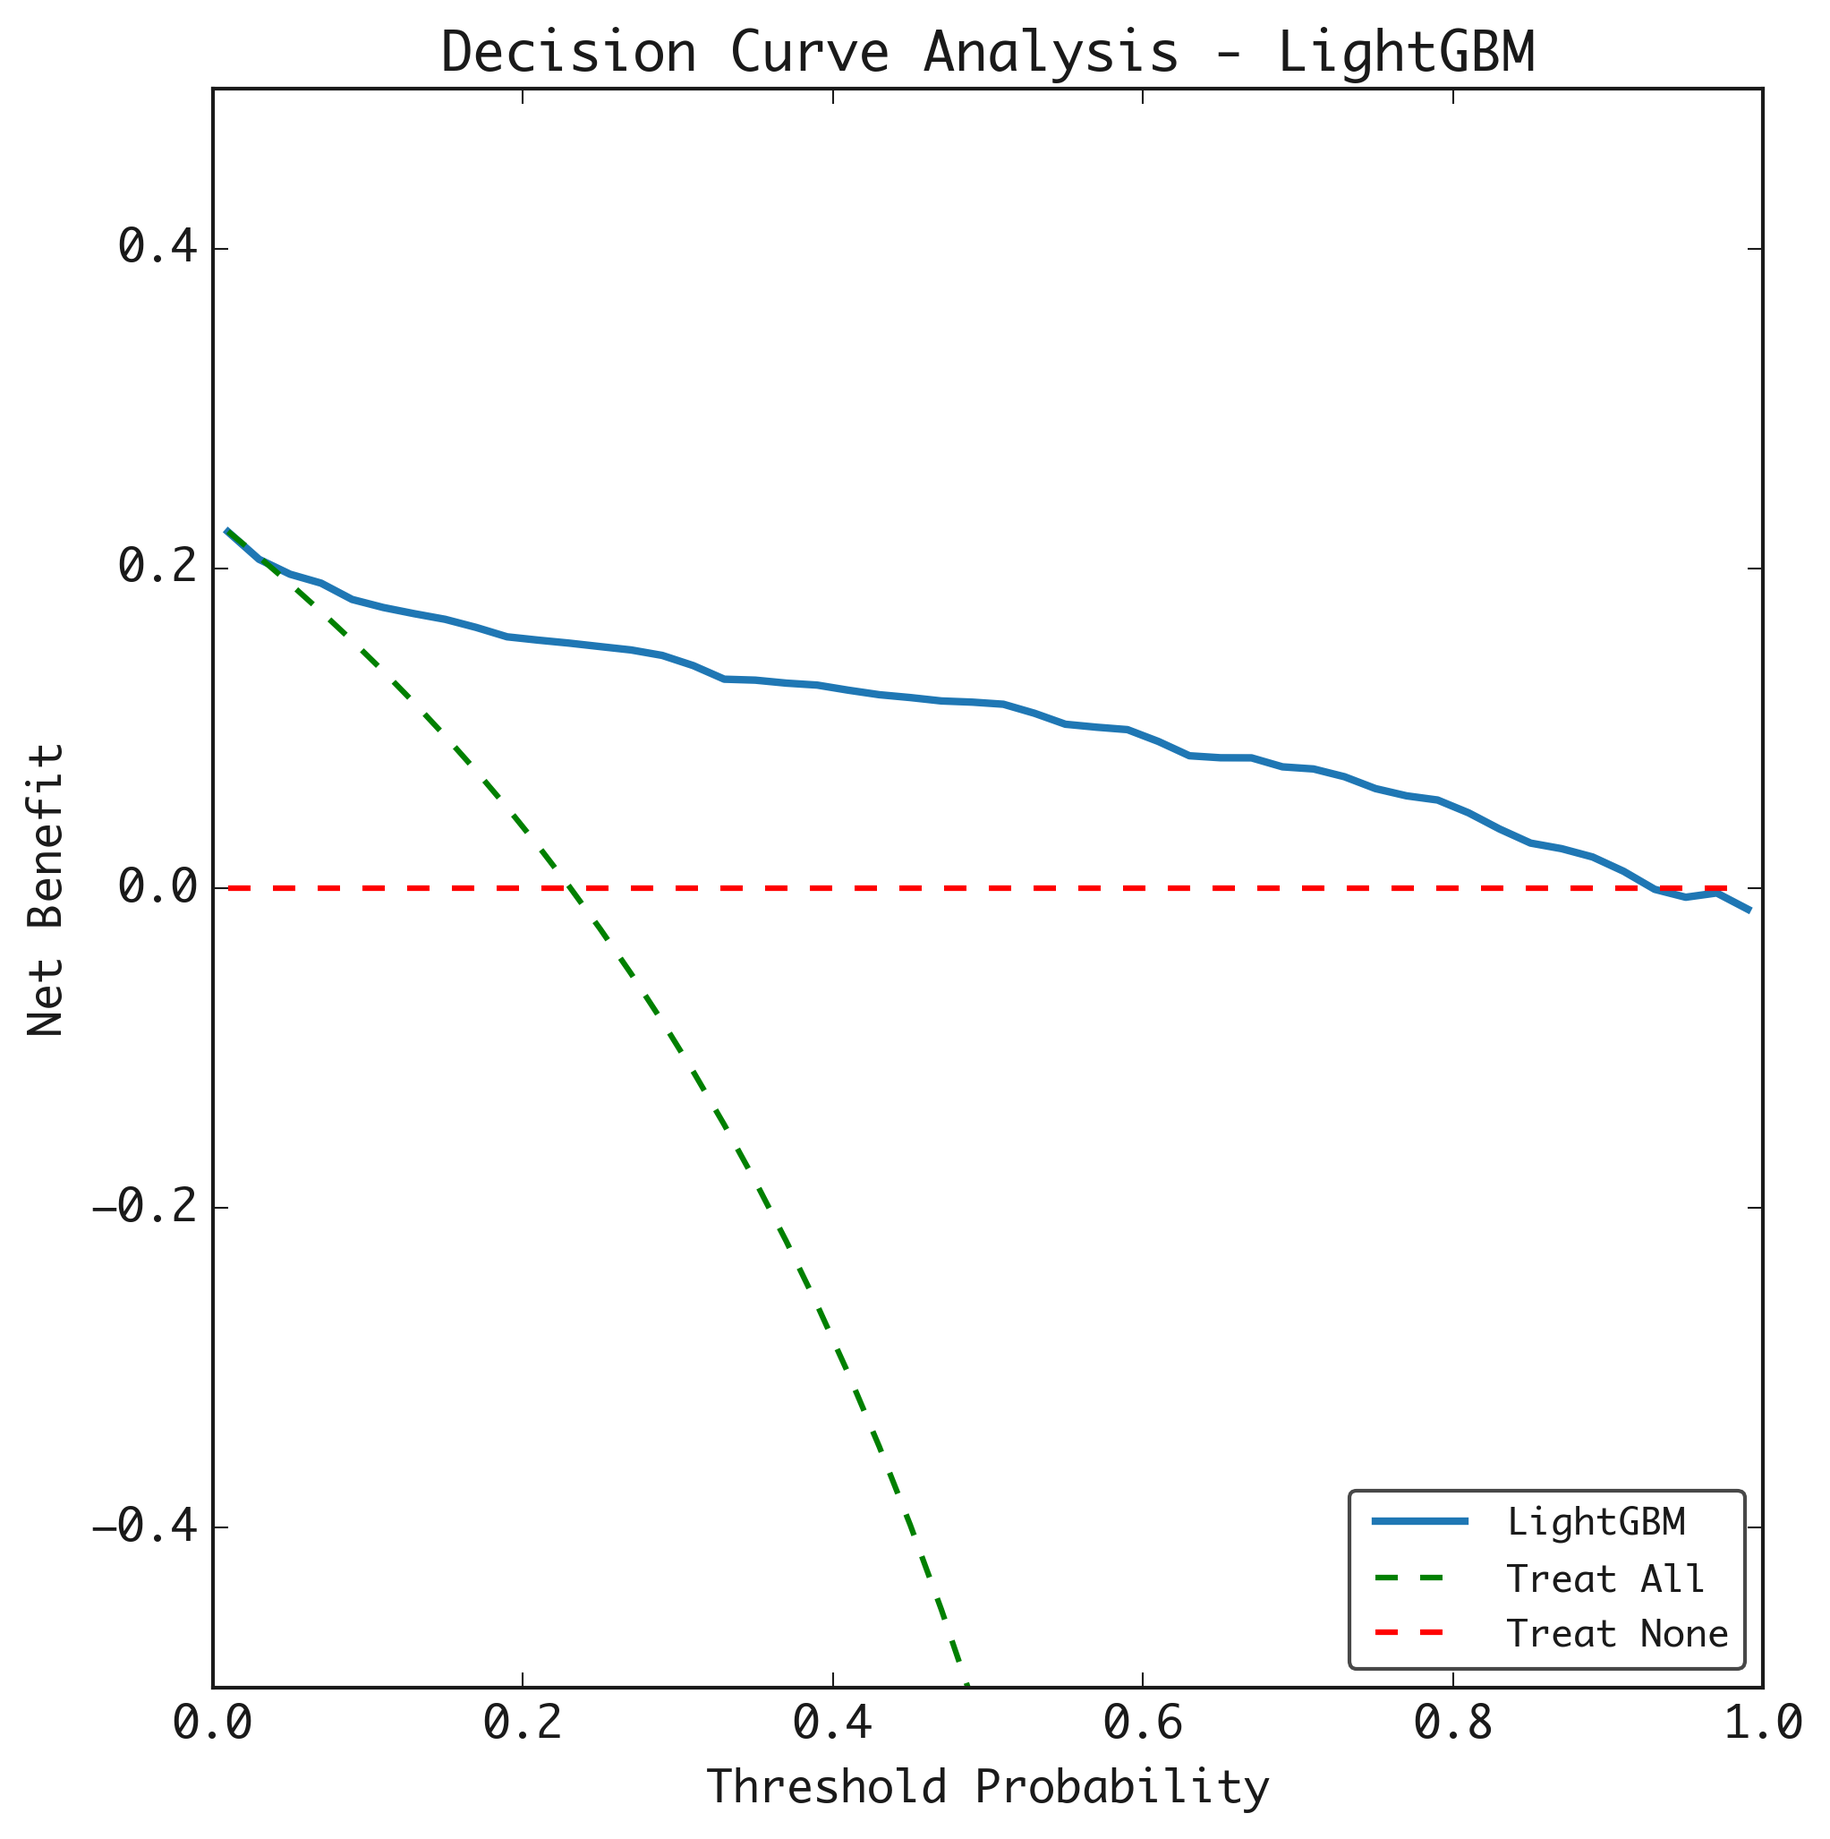
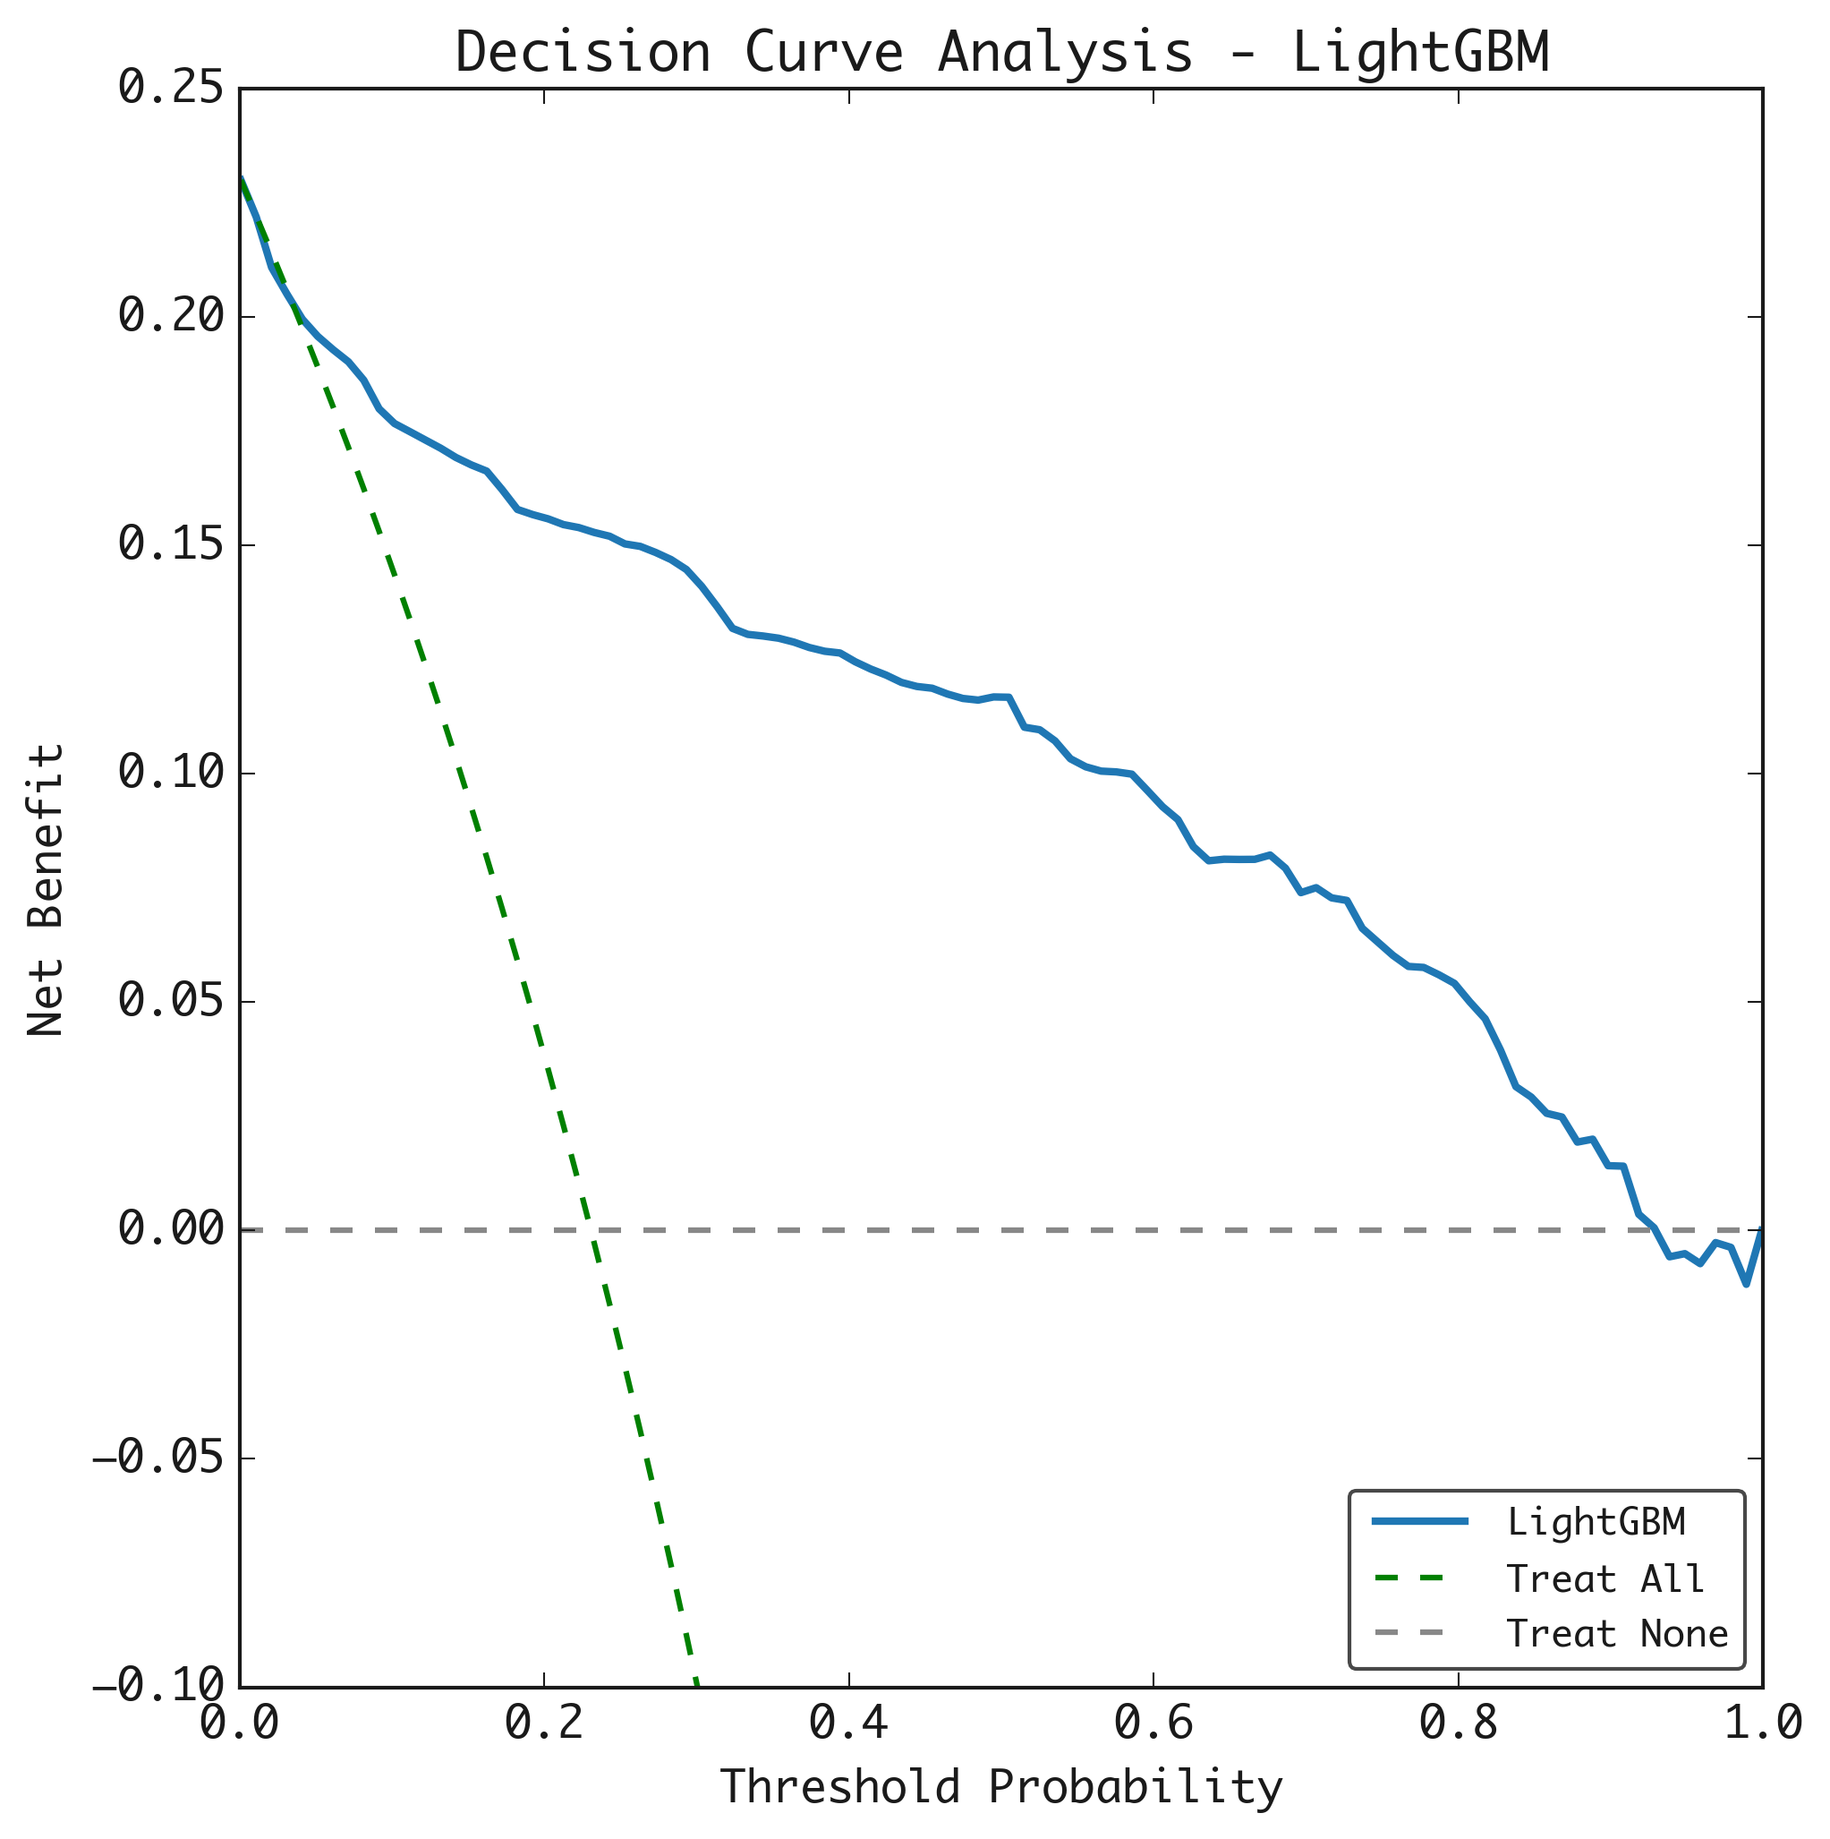
Version2.2

diff --git a/py_model/LightGBM_Evaluation copy.py b/py_model/LightGBM_Evaluation copy.py
@@ -18,7 +18,7 @@ from model_plot_DCA import plot_dca_curve, plot_dca_curve_comparison
 
 def main():
     # 命令行参数处理，允许覆盖配置文件中的设置
-    parser = argparse.ArgumentParser(description="XGBoost模型评估与可视化")
+    parser = argparse.ArgumentParser(description="LightGBM模型评估与可视化")
     parser.add_argument("--config", default="config.yaml", help="配置文件路径")
     parser.add_argument("--metrics", type=int, choices=[0, 1], help="是否计算评估指标(0:否, 1:是)")
     parser.add_argument("--roc", type=int, choices=[0, 1], help="是否绘制ROC曲线(0:否, 1:是)")
@@ -71,13 +71,13 @@ def main():
     result_dir.mkdir(exist_ok=True)
     
     # 加载模型
-    model_path = model_dir / 'XGBoost_model.pkl'
+    model_path = model_dir / 'LightGBM_model.pkl'
     with open(model_path, 'rb') as f:
         model = pickle.load(f)
     
     # 加载数据
     df = pd.read_csv(data_path)
-    with open(model_dir / 'XGBoost_feature_info.json', 'r') as f:
+    with open(model_dir / 'LightGBM_feature_info.json', 'r') as f:
         feature_info = json.load(f)
     features = feature_info['features']
     X = df[features]
@@ -105,45 +105,22 @@ def main():
     print(f"成功加载特征信息文件，模型使用的特征数：{len(features)}")
     y_pred = model.predict(X_test)
     y_prob = model.predict_proba(X_test)[:, 1]
-    model_name = "XGBoost"
+    model_name = "LightGBM"
     
     # 打印配置设置
     print(f"\n===== 模型评估 =====")
     
     # 计算评估指标
-    print(f"\n===== 开始计算评估指标 =====")
-    print(f"calc_metrics 值: {calc_metrics}")
-    print(f"y_test 形状: {y_test.shape if hasattr(y_test, 'shape') else 'N/A'}")
-    print(f"y_pred 形状: {y_pred.shape if hasattr(y_pred, 'shape') else 'N/A'}")
-    print(f"y_prob 形状: {y_prob.shape if hasattr(y_prob, 'shape') else 'N/A'}")
-    
     if calc_metrics:
         start_time = time.time()
-        print("\n正在计算评估指标...")
-        try:
-            metrics = calculate_metrics(y_test, y_pred, y_prob, weights_test)
-            
-            # 打印评估结果
-            print("\n===== 测试集评估指标 =====")
-            for metric_name, metric_value in metrics.items():
-                if isinstance(metric_value, (int, float)):
-                    print(f"{metric_name}: {metric_value:.4f}")
-                else:
-                    print(f"{metric_name}: {metric_value}")
-            print(f"\n评估指标计算完成 (耗时 {time.time() - start_time:.2f}秒)")
-            
-            # 保存指标到文件
-            metrics_path = Path(config['output_dir']) / f'{model_name}_metrics.json'
-            with open(metrics_path, 'w') as f:
-                json.dump(metrics, f, indent=4)
-            print(f"评估指标已保存到: {metrics_path}")
-            
-        except Exception as e:
-            print(f"\n计算评估指标时出错: {e}")
-            import traceback
-            traceback.print_exc()
-    else:
-        print("根据配置，跳过评估指标计算")
+        print("计算评估指标...")
+        metrics = calculate_metrics(y_test, y_pred, y_prob, weights_test)
+        
+        # 打印评估结果
+        print("\nTest Set Metrics:")
+        for metric_name, metric_value in metrics.items():
+            print(f"{metric_name}: {metric_value:.4f}")
+        print(f"评估指标计算完成 (耗时 {time.time() - start_time:.2f}秒)")
     
     # 绘图
     if draw_roc:
@@ -156,22 +133,18 @@ def main():
         start_time = time.time()
         print("绘制ROC比较曲线（评估DII贡献）...")
         
-        # 获取DII_food的中位数
-        dii_median = X['DII_food'].median()
-        print(f"DII_food的中位数为: {dii_median:.4f}")
-        
-        # 创建填充DII中位数版本的测试数据
-        X_test_median_dii = X_test.copy()
-        X_test_median_dii['DII_food'] = dii_median  # 填充中位数而不是0
+        # 创建无DII版本的测试数据
+        X_test_no_dii = X_test.copy()
+        X_test_no_dii['DII_food'] = X['DII_food'].median()  # 填充中位数而不是0
         
         # 预测测试集的概率
         y_prob_with_dii = y_prob  # 已有的测试集预测结果
-        y_prob_median_dii = model.predict_proba(X_test_median_dii)[:, 1]
+        y_prob_no_dii = model.predict_proba(X_test_no_dii)[:, 1]
         
         # 构建比较字典
         y_probs_dict = {
             f"{model_name}(all feature)": y_prob_with_dii,
-            f"{model_name}(without DII)": y_prob_median_dii  # 标签保持一致，便于后续处理
+            f"{model_name}(without DII)": y_prob_no_dii
         }
         
         # 调用比较函数，在测试集上进行比较，不使用SMOTE过采样
@@ -219,22 +192,17 @@ def main():
         y_prob_all = model.predict_proba(X)[:, 1]
         # 增加DII贡献评估
         print("\n评估DII对模型预测能力的贡献...")
+        # 创建无DII版本的数据(将DII_food列设为0)
+        X_no_dii = X.copy()
+        X_no_dii['DII_food'] = X['DII_food'].median()  # 填充中位数而不是0
         
-        # 获取DII_food的中位数
-        dii_median = X['DII_food'].median()
-        print(f"DII_food的中位数为: {dii_median:.4f}")
-        
-        # 创建填充DII中位数版本的数据
-        X_median_dii = X.copy()
-        X_median_dii['DII_food'] = dii_median  # 填充中位数而不是0
-        
-        # 预测填充中位数的数据
-        y_prob_median_dii = model.predict_proba(X_median_dii)[:, 1]
+        # 预测无DII数据
+        y_prob_no_dii = model.predict_proba(X_no_dii)[:, 1]
         
         # 构建DII对比字典
         y_probs_dict = {
             f"{model_name}(all feature)": y_prob_all,
-            f"{model_name}(without DII)": y_prob_median_dii  # 标签保持一致，便于后续处理
+            f"{model_name}(without DII)": y_prob_no_dii
         }
         
         # 绘制DII贡献对比DCA曲线 - 现在直接返回数据而不是路径
@@ -255,10 +223,6 @@ def main():
             json.dump(single_model_data, f, indent=4)
             
         print(f"已从比较版本中提取并保存单模型DCA数据 -> {model_name}_DCA.json")
-        
-        # 直接调用plot_dca_curve函数绘制单模型DCA图表
-        plot_dca_curve(y, y_prob_all, weights, model_name, plot_dir, plot_data_dir, use_smote=True)
-        
         print(f"决策曲线分析(DCA)绘制完成 (耗时 {time.time() - start_time:.2f}秒)")
     
     print("\n所有评估与可视化任务完成！")

diff --git a/py_model/Ensemble_Voting_Evaluation.py b/py_model/Ensemble_Voting_Evaluation.py
@@ -425,7 +425,7 @@ def main():
         
         # 计算所有模型的加权平均
         total_weight = sum(weight for _, weight in models_dict.values())
-        y_prob_all = sum(probs for probs in model_probs_full.values()) / total_weight
+        y_prob_ensemble = sum(probs for probs in model_probs_full.values()) / total_weight
         
         # 增加DII贡献评估
         print("\n评估DII对模型预测能力的贡献...")
@@ -456,7 +456,7 @@ def main():
         
         # 构建DII对比字典
         y_probs_dict = {
-            f"{model_name}(all feature)": y_prob_all,
+            f"{model_name}(all feature)": y_prob_ensemble,
             f"{model_name}(without DII)": y_prob_no_dii
         }
         
@@ -478,6 +478,10 @@ def main():
             json.dump(single_model_data, f, indent=4)
             
         print(f"已从比较版本中提取并保存单模型DCA数据 -> {model_name}_DCA.json")
+        
+        # 直接调用plot_dca_curve函数绘制单模型DCA图表
+        plot_dca_curve(y_full, y_prob_ensemble, weights_full, model_name, plot_dir, plot_data_dir, use_smote=True)
+        
         print(f"决策曲线分析(DCA)绘制完成 (耗时 {time.time() - start_time:.2f}秒)")
     
     print("\n所有评估与可视化任务完成！")

diff --git a/py_model/model_plot_DCA.py b/py_model/model_plot_DCA.py
@@ -200,11 +200,11 @@ def plot_dca_curve_comparison(y_true, y_probs_dict, weights, model_name, plot_di
         linestyle='--'
     )
     
-    # 绘制"Treat None"策略的曲线 - 红色长虚线
+    # 绘制"Treat None"策略的曲线 - 灰色长虚线
     plt.plot(
         thresholds, net_benefits_none, 
         label='Treat None', 
-        color='red', 
+        color='#888888', 
         linewidth=1.5, 
         linestyle='--'
     )
@@ -417,11 +417,11 @@ def plot_dca_curve(y_true, y_prob, weights, model_name, plot_dir, plot_data_dir,
         linestyle='--'
     )
     
-    # 绘制"Treat None"策略的曲线 - 红色长虚线
+    # 绘制"Treat None"策略的曲线 - 灰色长虚线
     plt.plot(
         thresholds, net_benefits_none, 
         label='Treat None', 
-        color='red', 
+        color='#888888', 
         linewidth=1.5, 
         linestyle='--'
     )

diff --git a/py_model/CatBoost_Evaluation.py b/py_model/CatBoost_Evaluation.py
@@ -232,6 +232,10 @@ def main():
             json.dump(single_model_data, f, indent=4)
             
         print(f"已从比较版本中提取并保存单模型DCA数据 -> {model_name}_DCA.json")
+        
+        # 直接调用plot_dca_curve函数绘制单模型DCA图表
+        plot_dca_curve(y, y_prob_all, weights, model_name, plot_dir, plot_data_dir, use_smote=True)
+        
         print(f"决策曲线分析(DCA)绘制完成 (耗时 {time.time() - start_time:.2f}秒)")
     
     print("\n所有评估与可视化任务完成！")

diff --git a/py_model/FNN_Evaluation.py b/py_model/FNN_Evaluation.py
@@ -945,6 +945,10 @@ def main():
             json.dump(single_model_data, f, indent=4)
             
         print(f"已从比较版本中提取并保存单模型DCA数据 -> {model_name}_DCA.json")
+        
+        # 直接调用plot_dca_curve函数绘制单模型DCA图表
+        plot_dca_curve(y, y_prob_all, weights, model_name, plot_dir, plot_data_dir, use_smote=True)
+        
         print(f"决策曲线分析(DCA)绘制完成 (耗时 {time.time() - start_time:.2f}秒)")
     
     print("\n所有评估与可视化任务完成！")

diff --git a/py_model/GNB_Evaluation.py b/py_model/GNB_Evaluation.py
@@ -409,6 +409,10 @@ def main():
             json.dump(single_model_data, f, indent=4)
             
         print(f"已从比较版本中提取并保存单模型DCA数据 -> {model_name}_DCA.json")
+        
+        # 直接调用plot_dca_curve函数绘制单模型DCA图表
+        plot_dca_curve(y, y_prob_all, weights, model_name, plot_dir, plot_data_dir, use_smote=True)
+        
         print(f"决策曲线分析(DCA)绘制完成 (耗时 {time.time() - start_time:.2f}秒)")
     
     print("\n所有评估与可视化任务完成！")

diff --git a/py_model/LightGBM_Evaluation.py b/py_model/LightGBM_Evaluation.py
@@ -223,6 +223,10 @@ def main():
             json.dump(single_model_data, f, indent=4)
             
         print(f"已从比较版本中提取并保存单模型DCA数据 -> {model_name}_DCA.json")
+        
+        # 直接调用plot_dca_curve函数绘制单模型DCA图表
+        plot_dca_curve(y, y_prob_all, weights, model_name, plot_dir, plot_data_dir, use_smote=True)
+        
         print(f"决策曲线分析(DCA)绘制完成 (耗时 {time.time() - start_time:.2f}秒)")
     
     print("\n所有评估与可视化任务完成！")

diff --git a/py_model/RF_Evaluation.py b/py_model/RF_Evaluation.py
@@ -251,6 +251,10 @@ def main():
             json.dump(single_model_data, f, indent=4)
             
         print(f"已从比较版本中提取并保存单模型DCA数据 -> {model_name}_DCA.json")
+        
+        # 直接调用plot_dca_curve函数绘制单模型DCA图表
+        plot_dca_curve(y, y_prob_all, weights, model_name, plot_dir, plot_data_dir, use_smote=True)
+        
         print(f"决策曲线分析(DCA)绘制完成 (耗时 {time.time() - start_time:.2f}秒)")
     
     print("\n所有评估与可视化任务完成！")

diff --git a/py_model/Logistic_Evaluation.py b/py_model/Logistic_Evaluation.py
@@ -286,6 +286,10 @@ def main():
             json.dump(single_model_data, f, indent=4)
             
         print(f"已从比较版本中提取并保存单模型DCA数据 -> {model_name}_DCA.json")
+        
+        # 直接调用plot_dca_curve函数绘制单模型DCA图表
+        plot_dca_curve(y, y_prob_all, weights, model_name, plot_dir, plot_data_dir, use_smote=True)
+        
         print(f"决策曲线分析(DCA)绘制完成 (耗时 {time.time() - start_time:.2f}秒)")
     
     # 打印逻辑回归模型系数（β值）

diff --git a/py_general/combine_plots_single.py b/py_general/combine_plots_single.py
@@ -129,10 +129,12 @@ def process_plots(plot_dir, output_dir):
     
     # 定义要处理的图片模式（不区分大小写）
     patterns = [
+        '*ROC_DII.png',
         '*DCA_DII.png', 
         '*Threshold.png', 
         '*Learning_Curve.png',
-        '*Calibration_Curve.png'  # 添加校准曲线
+        '*Calibration_Curve.png'
+        
     ]
     
     for pattern in patterns:

diff --git a/py_model/model_plot_utils copy.py b/py_model/model_plot_utils copy.py
@@ -184,7 +184,7 @@ def plot_learning_curve(model, X_train, y_train, X_test, y_test, model_name, plo
     from scipy import stats
     import numpy as np
     
-    # 定义要测试的样本量 - 使用1000开始
+    # 定义要测试的样本量 - 使用1000开始，每500递增
     start_size = 1000
     step_size = 500
     max_train_size = len(X_train)
